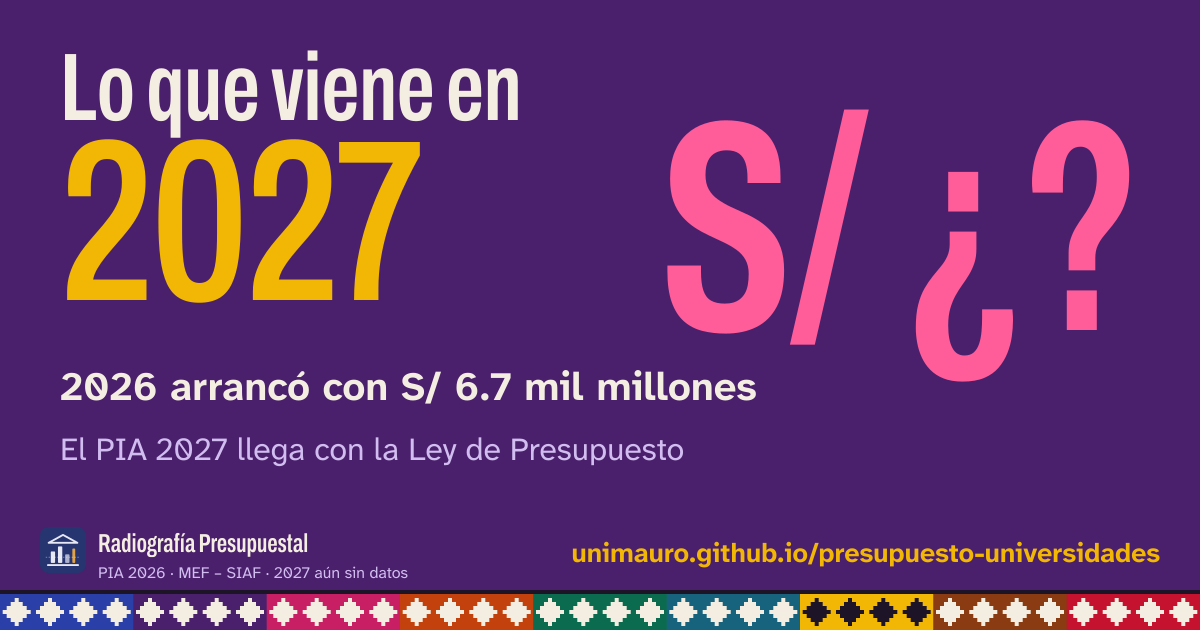
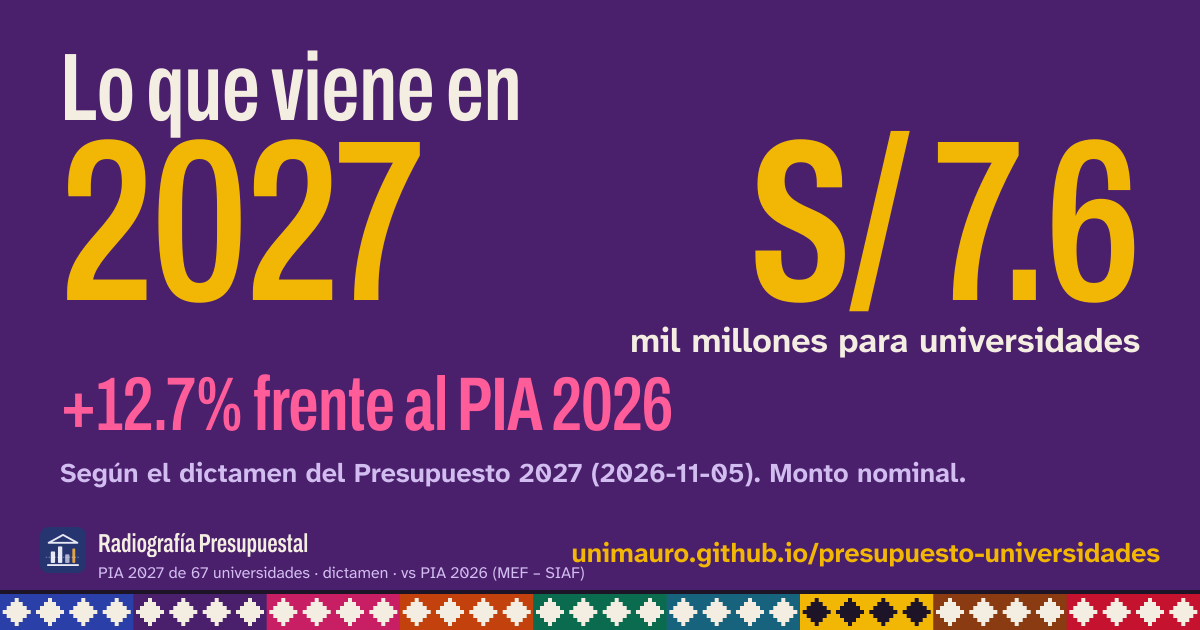
Línea base: frase neutral según año base/métrica/modo, notas visibles; tokens alineados a BRAND v2

Changed region(s): [[0.0308, 0.1508, 0.9558, 0.7841], [0.1233, 0.9048, 0.4933, 0.9349]]

diff --git a/etl/ley2027_build.py b/etl/ley2027_build.py
@@ -263,53 +263,25 @@ def parse_anexo8(codigos):
 
 
 # ---------------------------------------------------------------- Disposiciones
-DISPOSICIONES = [
-    ("Art. 8, literales d) y f)",
-     "Exceptúa de la prohibición de ingreso de personal el nombramiento y la contratación en plaza "
-     "presupuestada de docentes universitarios en universidades públicas."),
-    ("Art. 13 (transferencias financieras, literal iv del MINCETUR)",
-     "Permite al MINCETUR transferir hasta S/ 2 000 000 a la UN Toribio Rodríguez de Mendoza, UN de San Martín, "
-     "UN del Altiplano, UN de San Agustín y CENFOTUR Cusco para capacitar intérpretes de turismo comunitario."),
-    ("Art. 60",
-     "Autoriza a universidades públicas (y gobiernos subnacionales) a transferir recursos (RO, canon/sobrecanon, "
-     "regalías, RDR) al IGP, SENAMHI, INAIGEM, INGEMMET, CENEPRED y otros para estudios de riesgo de desastres "
-     "en el PP 0068; aprobación por resolución del titular."),
-    ("Art. 64",
-     "Universidades públicas, como entidades del SINACTI, pueden pagar pasajes, alimentación y hospedaje a "
-     "científicos externos para apoyo técnico, evaluaciones y jurados de CTI, sin recursos adicionales."),
-    ("Art. 66.3",
-     "Universidades beneficiarias de fondos concursables pueden otorgar incentivos económicos a docentes que "
-     "ejecutan proyectos de investigación, con cargo a Donaciones y Transferencias y conformidad del "
-     "Vicerrectorado de Investigación, sin afectar horas lectivas."),
-    ("Art. 78",
-     "Autoriza a universidades públicas, con cargo a su presupuesto por toda fuente, a otorgar subvenciones a "
-     "graduados y estudiantes de pregrado (movilidad, congresos, concursos de investigación, titulación); "
-     "MINEDU aprueba lineamientos en 30 días."),
-    ("Art. 79",
-     "Autoriza al MINEDU a transferir hasta S/ 26 521 910 a universidades públicas para la implementación "
-     "progresiva de la bonificación especial del docente investigador (art. 86 Ley 30220), mediante decreto "
-     "supremo."),
-    ("Art. 82",
-     "Autoriza excepcionalmente a universidades públicas a usar canon, sobrecanon, regalías, FOCAM y renta de "
-     "aduanas (y sus saldos): hasta 50 % en inversiones, 5 % en preinversión, 20 % en gasto corriente de "
-     "investigación y mantenimiento, 10 % en software, licencias, patentes y CBC; prohíbe usarlos en "
-     "remuneraciones. Regla análoga (82.2) para saldos de canon transferidos por gobiernos regionales en "
-     "Donaciones y Transferencias. Fue uno de los 5 puntos sin consenso MEF–Congreso en el predictamen (RPP)."),
-    ("Art. 87.1–87.3",
-     "Autoriza al MEF a financiar con la Reserva de Contingencia (RO) la implementación inicial de 26 "
-     "universidades públicas creadas por ley; las que inician en el 2.º semestre de 2026 registran puestos "
-     "CAS sin tope del Anexo I. El dictamen cambia la lista de leyes respecto del proyecto (retira 32549 y "
-     "32554; agrega 32674 y 32546)."),
-    ("Art. 87.4",
-     "Moratoria en 2027 para crear y autorizar el funcionamiento de nuevas universidades públicas, salvo "
-     "universidades con licencia denegada y las comprendidas en la Ley 30597 (Música, Daniel Alomía Robles, "
-     "Diego Quispe Tito) solo con su oferta actual."),
-    ("Art. 7 / Capítulo II (reglas generales)",
-     "Los docentes universitarios de la Ley 30220 están comprendidos en las reglas generales de aguinaldos y "
-     "escolaridad, y en la prohibición general de reajustes remunerativos salvo excepciones de la propia ley."),
-    ("Uso de vehículos (medidas de austeridad)",
-     "En universidades públicas el vehículo asignado es de uso oficial exclusivo del rector."),
-]
+def disposiciones():
+    """Lista de disposiciones con validación de la cita textual contra el dictamen."""
+    sys.path.insert(0, str(Path(__file__).resolve().parent))
+    from ley2027_disposiciones import D
+    raw = "\n".join((p.extract_text() or "") for p in pypdf.PdfReader(CACHE / "Dictamen_PL00002_LP.pdf").pages)
+    norm = lambda x: re.sub(r"\s+", " ", x).strip()
+    texto = norm(raw)
+    url = DOCS["Dictamen_PL00002_LP.pdf"][0]
+    out = []
+    for art, tema, alcance, resumen, cita, monto in D:
+        ok = norm(cita) in texto
+        if not ok:
+            print(f"AVISO: cita no encontrada literalmente ({art}): {cita[:60]}...")
+        if len(cita.split()) > 40:
+            print(f"AVISO: cita > 40 palabras ({art})")
+        out.append(OrderedDict(articulo=art, tema=tema, alcance=alcance, resumen=resumen, cita=cita,
+                               cita_verificada=ok, monto=monto, url=url,
+                               fuente_texto="texto sustitutorio del dictamen (5-nov-2026)"))
+    return out
 
 
 def main():
@@ -419,7 +391,7 @@ def main():
         "fuente: Anexo 4 por fuente de financiamiento (RO, RDR, ROOC, D y T, RD). En el Anexo 4 'RECURSOS DETERMINADOS' agrupa canon, sobrecanon, regalías, renta de aduanas y participaciones; no se desagrega por rubro.",
         "generica, categoria_presupuestal, productos, actividades y proyectos: Anexo 5. programas_presupuestales: Anexo 8 (solo PP en que aparece la universidad).",
         "Las universidades creadas recientemente sin pliego propio en el proyecto no tienen PIA 2027; el art. 87 prevé financiarlas desde la Reserva de Contingencia durante el año (monto no especificado en la ley).",
-        "Disposiciones: numeración del texto sustitutorio del dictamen (coincide con el proyecto en los artículos revisados). La numeración de la autógrafa final podría variar.",
+        "Disposiciones: lista de las que afectan el gasto de las universidades (alcance='especifica' si las nombra; 'general' si rige para entidades del Gobierno nacional y alcanza a universidades por el art. 3). Numeración y citas del texto sustitutorio del dictamen (coincide con el proyecto en los artículos revisados); la autógrafa/ley final podría renumerar. El Anexo I (tope de CAS por pliego) no se pudo descargar.",
     ] + ([f"Universidades sin PIA 2027 en el Anexo 4: {', '.join(sin_2027)}"] if sin_2027 else []) \
       + ([f"Pliegos universitarios en el proyecto 2027 que no están en gasto.json: {', '.join(nuevas)}"] if nuevas else []) \
       + ([f"Chequeos con diferencias: {'; '.join(checks)}"] if checks else ["Chequeos OK: Anexo 4 (suma de fuentes = total por fila), Anexo 5 = Anexo 4 por pliego, genéricas y proyectos cuadran."])
@@ -447,9 +419,7 @@ def main():
         ("referencias_em", "Exposición de motivos: PP 0066 S/ 4 222 M en total (incluye MINEDU y 1 GR); S/ 3 511 M remuneraciones de 67 universidades; S/ 260 M pensiones de 54; S/ 1 201 M gastos operativos de 67; S/ 1 967 M inversiones y otros activos."),
     ])
     out["universidades"] = universidades
-    out["disposiciones"] = [{"articulo": a, "resumen": r, "url": DOCS["Dictamen_PL00002_LP.pdf"][0],
-                             "fuente_texto": "texto sustitutorio del dictamen (5-nov-2026); mismo número en el proyecto"}
-                            for a, r in DISPOSICIONES]
+    out["disposiciones"] = disposiciones()
     OUT.parent.mkdir(parents=True, exist_ok=True)
     OUT.write_text(json.dumps(out, ensure_ascii=False, indent=1))
     print(f"OK {OUT} — {len(universidades)} universidades; total 2027 {tot27:,} vs 2026 {tot26:,}")

diff --git a/etl/og_generar.py b/etl/og_generar.py
@@ -57,9 +57,18 @@ TEXTO = "'Atkinson Hyperlegible Next', 'Atkinson Hyperlegible', sans-serif"
 
 
 # ---------- datos ----------
+RESUMEN = ROOT / "data" / "resumen.json"
+
+
 def cargar():
     src = DATA if DATA.exists() else SAMPLE
     d = json.loads(src.read_text(encoding="utf-8"))
+    # Claves que el integrador publica en la capa resumen (expectativa_2027, baseline): se agregan si faltan.
+    if src == DATA and RESUMEN.exists():
+        r = json.loads(RESUMEN.read_text(encoding="utf-8"))
+        for k in ("expectativa_2027", "baseline"):
+            if k not in d and k in r:
+                d[k] = r[k]
     return d, src == SAMPLE or d.get("ejemplo") is True
 
 
@@ -236,31 +245,71 @@ def og_historias(d, y, T, sample, claro=False):
          disp(60, 222, "de tu universidad?", 104, ink),
          (f'<text x="54" y="420" font-family="{DISPLAY}" font-weight="900" font-size="230" fill="{col}" letter-spacing="-0.5">'
           f'{escape(cifra(T["dev"])[0])}<tspan font-size="120" dx="28">{escape(cifra(T["dev"])[1])}</tspan></text>'),
-         t(62, 480, f"gastaron las {T['n']} universidades públicas en {y}. Te lo contamos en 8 historias.", 29, sub, TEXTO, "700"),
+         t(62, 480, f"gastaron las {T['n']} universidades públicas en {y}. Te lo contamos capítulo por capítulo.", 29, sub, TEXTO, "700"),
          ]
     return lienzo("\n".join(c), bg=PAPEL if claro else MAIZ, claro=claro, sample=sample,
                   fuente=f"Devengado {y} · MEF – Consulta Amigable (SIAF)")
 
 
 # ---------- 2027 ----------
+ETAPA_2027 = {   # cómo nombrar la cifra según el trámite (nunca presentar un dictamen como ley publicada)
+    "proyecto": "Según el proyecto de Presupuesto 2027 (Ejecutivo)",
+    "dictamen": "Según el dictamen del Presupuesto 2027",
+    "autografa": "Según la autógrafa del Presupuesto 2027 (aprobada por el Pleno)",
+    "ley": "Ley de Presupuesto 2027",
+}
+
+
 def og_2027(d, sample):
-    T27 = total(d, "2027")
-    T26 = total(d, "2026")
+    e = d.get("expectativa_2027") or {}
+    tu = e.get("total_universidades") or {}
+    p27, p26 = tu.get("pia_2027"), tu.get("pia_2026")
     c = [disp(60, 120, "Lo que viene en", 96),
          disp(60, 300, "2027", 230, AJI)]
-    if T27 and T27.get("pia"):
-        c += [disp(1140, 300, cifra(T27['pia'])[0], 200, PAPEL, "end"),
-              t(1140, 350, f"{cifra(T27['pia'])[1]} de PIA", 36, LILA, TEXTO, "700", "end")]
-        if T26 and T26.get("pia"):
-            var = T27["pia"] / T26["pia"] - 1
-            c.append(t(60, 470, f"{'+' if var >= 0 else '−'}{abs(var) * 100:.1f}% frente al PIA 2026 (nominal)", 38, PAPEL, TEXTO, "700"))
-        fuente = "PIA 2027 · MEF – SIAF"
+    if p27:
+        num, uni = cifra(p27)
+        var = tu.get("var_pct")
+        if var is None and p26:
+            var = (p27 / p26 - 1) * 100
+        etapa = ETAPA_2027.get(str(e.get("version") or "").lower(), "Según el Presupuesto 2027 en trámite")
+        fecha = e.get("fecha") or ""
+        c += [disp(1140, 300, num, 230, AJI, "end"),
+              t(1140, 352, f"{uni} para universidades", 34, PAPEL, TEXTO, "700", "end")]
+        if var is not None:
+            c.append(disp(60, 430, f"{'+' if var >= 0 else '−'}{abs(var):.1f}% frente al PIA 2026", 76, DEV_O))
+        c.append(t(60, 482, f"{etapa}{f' ({fecha})' if fecha else ''}. Monto nominal.", 27, LILA, TEXTO, "700"))
+        n = tu.get("n_pliegos_2027")
+        fuente = f"PIA 2027 de {n} universidades · {e.get('version', 'proyecto')} · vs PIA 2026 (MEF – SIAF)" if n else "PIA 2027 · vs PIA 2026 (MEF – SIAF)"
     else:
+        T26 = total(d, "2026")
         c += [disp(1140, 330, "S/ ¿?", 300, DEV_O, "end"),
               t(60, 400, (f"2026 arrancó con {cifra_txt(T26['pia'])}" if T26 and T26.get("pia") else "Aún sin datos de 2026"), 40, PAPEL, TEXTO, "700"),
               t(60, 460, "El PIA 2027 llega con la Ley de Presupuesto", 32, LILA)]
         fuente = "PIA 2026 · MEF – SIAF · 2027 aún sin datos"
     return lienzo("\n".join(c), sample=sample, fuente=fuente)
+
+
+# ---------- línea base: peso de las universidades en el presupuesto del Estado ----------
+def og_linea_base(d, y, sample):
+    b = ((d.get("baseline") or {}).get("anios") or {}).get(y) or {}
+    pct = b.get("pct_unis_en_total_pim")
+    if pct is None:
+        return None
+    soles = pct * 100     # soles de cada S/ 100
+    c = [disp(60, 110, "De cada S/ 100 del Estado,", 84),
+         disp(54, 330, f"S/{NB}{soles:.1f}", 250, AJI),
+         disp(60, 420, "van a universidades públicas", 76),
+         t(62, 475, f"Presupuesto {y} (PIM) de los 3 niveles de gobierno", 27, LILA, TEXTO, "700")]
+    # Waffle 10×10: cada cuadro = S/ 1; los primeros se pintan en ají (parcial el último)
+    x0, y0, u, g = 820, 150, 30, 6
+    for i in range(100):
+        cx, cy = x0 + (i % 10) * (u + g), y0 + (i // 10) * (u + g)
+        c.append(f'<rect x="{cx}" y="{cy}" width="{u}" height="{u}" fill="{PAPEL}" opacity=".18"/>')
+        frac = max(0.0, min(1.0, soles - i))
+        if frac > 0:
+            c.append(f'<rect x="{cx}" y="{cy}" width="{u * frac:.1f}" height="{u}" fill="{AJI}"/>')
+    c.append(t(820 + 5 * (u + g) - g / 2, y0 + 10 * (u + g) + 26, "cada cuadro = S/ 1", 22, LILA, TEXTO, "700", "middle"))
+    return lienzo("\n".join(c), sample=sample, fuente=f"Universidades / total del sector público, PIM {y} · MEF – Consulta Amigable")
 
 
 def render(svg, nombre, carpeta):
@@ -323,6 +372,9 @@ def main():
     print("  ", render(og_historias(d, y, T, sample), "og-historias", OUT).relative_to(ROOT))
     print("  ", render(og_historias(d, y, T, sample, claro=True), "og-historias-clara", VAR).relative_to(ROOT))
     print("  ", render(og_2027(d, sample), "og-2027", OUT).relative_to(ROOT))
+    lb = og_linea_base(d, y, sample)
+    if lb:
+        print("  ", render(lb, "og-d-linea-base", VAR).relative_to(ROOT))
 
 
 if __name__ == "__main__":
